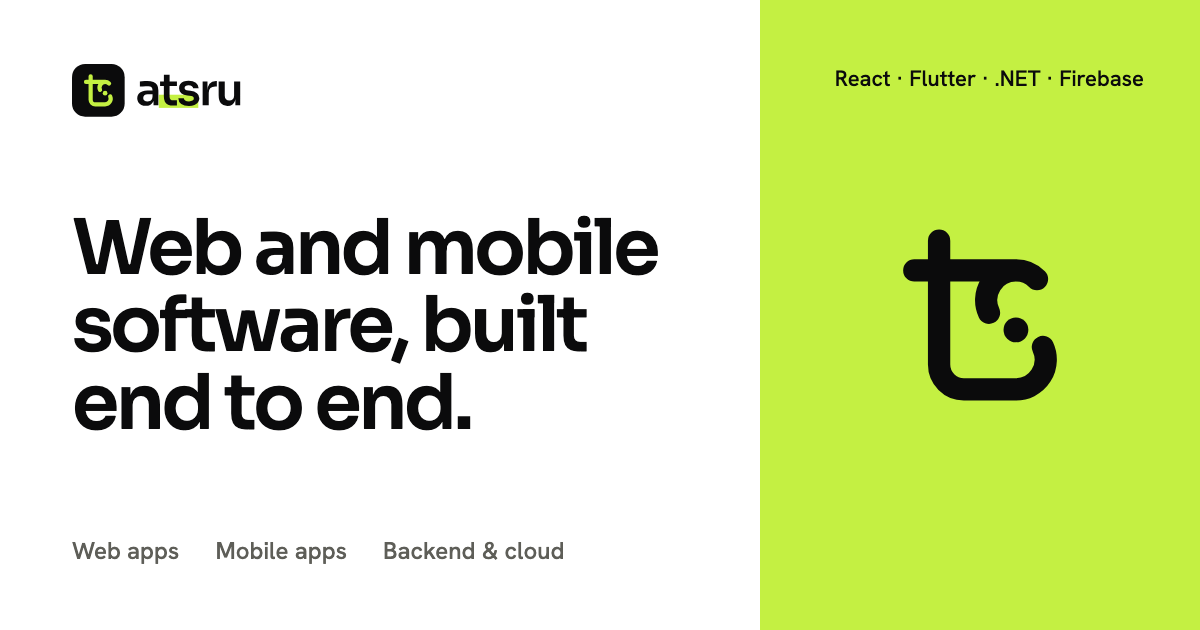
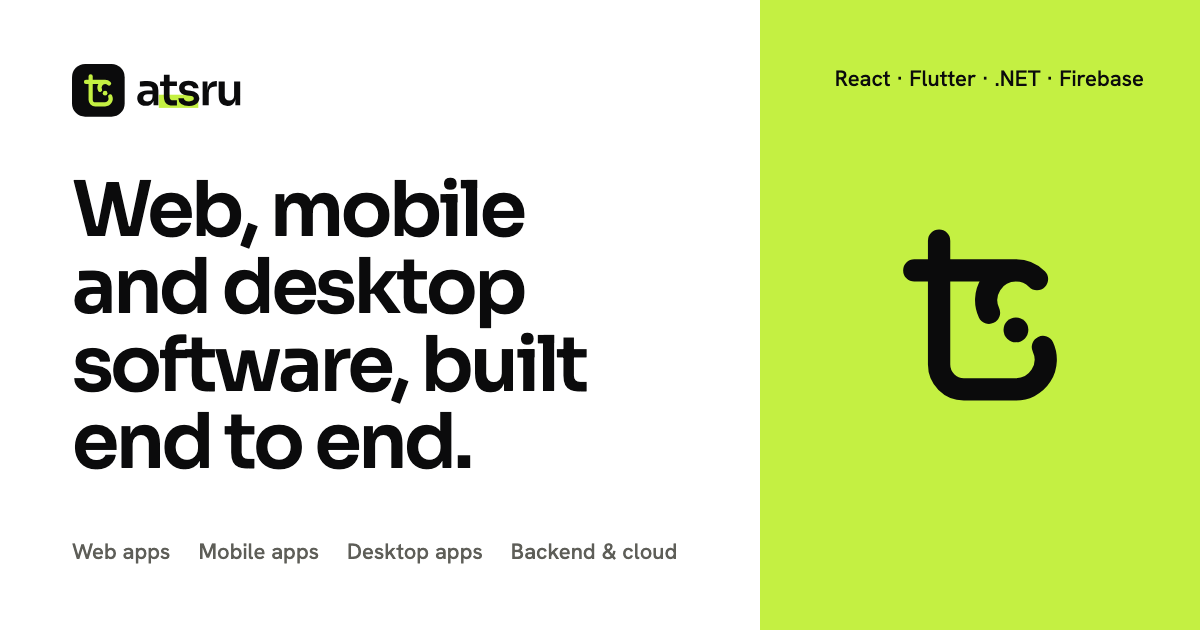
feat: target homepage copy at EU businesses
- title, description and Open Graph tags aimed at web, mobile and desktop
  app development for the EU
- headline and hero tags now include desktop; og-image re-rendered
- services: websites (incl. SEO and web apps), mobile, desktop, backend,
  prototypes
- new "How we work" and FAQ sections; about mentions Romania, EU, languages
- remove the Work section and client thumbnails (no client approval)
- JSON-LD gains country, languages and the new services

Changed region(s): [[0.0617, 0.2714, 0.555, 0.754], [0.0617, 0.8444, 0.555, 0.9048]]

diff --git a/public/index.html b/public/index.html
@@ -3,10 +3,10 @@
   <head>
     <meta charset="utf-8" />
     <meta name="viewport" content="width=device-width, initial-scale=1, viewport-fit=cover" />
-    <title>atsru — Web and mobile software, built end to end</title>
+    <title>Web, Mobile &amp; Desktop App Development in the EU — atsru</title>
     <meta
       name="description"
-      content="atsru designs and builds web apps, mobile apps and the backends behind them. React, Flutter, .NET and Firebase."
+      content="atsru builds web, mobile and desktop apps and the backends behind them with React, Flutter, .NET and Firebase. Fixed-price projects across the EU."
     />
     <meta name="theme-color" content="#0B0B0C" />
     <link rel="canonical" href="https://atsru.ro/" />
@@ -14,17 +14,17 @@
     <meta property="og:type" content="website" />
     <meta property="og:site_name" content="atsru" />
     <meta property="og:locale" content="en_GB" />
-    <meta property="og:title" content="atsru — Web and mobile software, built end to end" />
+    <meta property="og:title" content="atsru — Web, mobile and desktop software, built end to end" />
     <meta
       property="og:description"
-      content="We design and build web apps, mobile apps and the backends behind them."
+      content="We design and build web, mobile and desktop apps and the backends behind them, for businesses across the EU."
     />
     <meta property="og:url" content="https://atsru.ro/" />
     <meta property="og:image" content="https://atsru.ro/og-image.png" />
     <meta property="og:image:type" content="image/png" />
     <meta property="og:image:width" content="1200" />
     <meta property="og:image:height" content="630" />
-    <meta property="og:image:alt" content="atsru — Web and mobile software, built end to end. React, Flutter, .NET, Firebase." />
+    <meta property="og:image:alt" content="atsru — Web, mobile and desktop software, built end to end. React, Flutter, .NET, Firebase." />
     <meta name="twitter:card" content="summary_large_image" />
 
     <script type="application/ld+json">
@@ -38,9 +38,11 @@
             "url": "https://atsru.ro/",
             "logo": "https://atsru.ro/icon-512.png",
             "email": "ro.atsru@gmail.com",
-            "description": "atsru designs and builds web apps, mobile apps and the backends behind them.",
+            "address": { "@type": "PostalAddress", "addressCountry": "RO" },
+            "knowsLanguage": ["en", "ro"],
+            "description": "atsru designs and builds web, mobile and desktop apps and the backends behind them.",
             "areaServed": { "@type": "Place", "name": "European Union" },
-            "knowsAbout": ["Web application development", "Mobile app development", "React", "Flutter", ".NET", "Firebase"]
+            "knowsAbout": ["Website development", "Search engine optimisation", "Web application development", "Mobile app development", "Desktop app development", "Prototyping", "React", "Flutter", ".NET", "Firebase"]
           },
           {
             "@type": "WebSite",
@@ -104,20 +106,24 @@
 
           <div class="hero__copy">
             <h1 class="hero__title">
-              <span>Web and mobile</span>
+              <span>Web, mobile</span>
+              <span>and desktop</span>
               <span>software, built</span>
               <span>end to end.</span>
             </h1>
-            <p class="hero__lede">We design and build web apps, mobile apps and the backends behind them.</p>
+            <p class="hero__lede">
+              We design and build web, mobile and desktop apps and the backends behind them, for businesses across the EU.
+            </p>
             <div class="hero__actions">
               <a class="btn btn--dark" href="#contact">Start a project</a>
-              <a class="btn btn--ghost" href="#work">See our work</a>
+              <a class="btn btn--ghost" href="#process">How we work</a>
             </div>
           </div>
 
           <ul class="hero__tags" aria-label="What we do">
             <li>Web apps</li>
             <li>Mobile apps</li>
+            <li>Desktop apps</li>
             <li>Backend &amp; cloud</li>
           </ul>
         </div>
@@ -133,53 +139,57 @@
           <h2 class="section__title" id="services-title">Services</h2>
           <ul class="rows">
             <li class="row">
-              <h3>Web apps</h3>
-              <p>React front ends, dashboards and internal tools.</p>
+              <h3>Websites</h3>
+              <p>
+                Fast presentation websites for your business, built with SEO in mind, and apps that run in the browser,
+                from dashboards to full products.
+              </p>
             </li>
             <li class="row">
               <h3>Mobile apps</h3>
-              <p>iOS and Android apps, built in Flutter.</p>
+              <p>iOS and Android apps from one Flutter codebase, shipped to the App Store and Google Play.</p>
+            </li>
+            <li class="row">
+              <h3>Desktop apps</h3>
+              <p>Desktop applications built in .NET, from internal tools to full products.</p>
             </li>
             <li class="row">
               <h3>Backend &amp; cloud</h3>
-              <p>.NET APIs, Firebase and reliable deployments.</p>
+              <p>.NET APIs, Firebase, integrations and reliable deployments.</p>
+            </li>
+            <li class="row">
+              <h3>Prototypes</h3>
+              <p>
+                Have an idea you want to test before handing it to your dev team? We build a working prototype you can
+                put in front of users, then hand it over.
+              </p>
             </li>
           </ul>
         </div>
       </section>
 
-      <section class="section" id="work" aria-labelledby="work-title">
+
+      <section class="section" id="process" aria-labelledby="process-title">
         <div class="container">
-          <h2 class="section__title" id="work-title">Work</h2>
-          <ul class="cards">
-            <li class="card">
-              <a href="https://essentum-rufeea.ro/" target="_blank" rel="noopener">
-                <div class="card__media">
-                  <img src="/img/essentum.webp" alt="Essentum Rufeea website" width="252" height="247" loading="lazy" decoding="async" />
-                </div>
-                <h3>Essentum Rufeea <span class="arrow" aria-hidden="true">↗</span></h3>
-                <p>Brand site for a Romanian laundry fragrance company, with rich visuals and product storytelling.</p>
-              </a>
+          <h2 class="section__title" id="process-title">How we work</h2>
+          <ol class="rows">
+            <li class="row">
+              <h3><span class="row__num">01</span>Scope</h3>
+              <p>A first call to understand what you're building, then a written scope and a fixed-price quote.</p>
             </li>
-            <li class="card">
-              <a href="https://rcpartners.ro/" target="_blank" rel="noopener">
-                <div class="card__media">
-                  <img src="/img/rcpartners.webp" alt="RC Partners website" width="278" height="207" loading="lazy" decoding="async" />
-                </div>
-                <h3>RC Partners <span class="arrow" aria-hidden="true">↗</span></h3>
-                <p>Corporate website for a law firm specialised in mergers and acquisitions.</p>
-              </a>
+            <li class="row">
+              <h3><span class="row__num">02</span>Design</h3>
+              <p>Interface and architecture, agreed with you before the build starts.</p>
             </li>
-            <li class="card">
-              <a href="https://minded-counsels.ro/" target="_blank" rel="noopener">
-                <div class="card__media">
-                  <img src="/img/minded.webp" alt="Minded Counsels website" width="290" height="152" loading="lazy" decoding="async" />
-                </div>
-                <h3>Minded Counsels <span class="arrow" aria-hidden="true">↗</span></h3>
-                <p>Site for a boutique IP law firm with offices in Bucharest and Târgu Mureș.</p>
-              </a>
+            <li class="row">
+              <h3><span class="row__num">03</span>Build</h3>
+              <p>Short iterations, with a working version you can try as we go.</p>
             </li>
-          </ul>
+            <li class="row">
+              <h3><span class="row__num">04</span>Launch</h3>
+              <p>Release to production, documentation and a clean handover to your team.</p>
+            </li>
+          </ol>
         </div>
       </section>
 
@@ -194,7 +204,49 @@
               You work directly with the people writing the code. We keep the stack small and proven, ship in short
               iterations and leave you with software that is fast, documented and easy to hand over.
             </p>
+            <p>Based in Romania, we work remotely with businesses across the EU, in English or Romanian.</p>
           </div>
+        </div>
+      </section>
+
+      <section class="section" id="faq" aria-labelledby="faq-title">
+        <div class="container">
+          <h2 class="section__title" id="faq-title">FAQ</h2>
+          <ul class="rows">
+            <li class="row">
+              <h3>How much does a project cost?</h3>
+              <p>
+                We work at a fixed price. After a first call we scope the project and send a quote, so you know the
+                cost before any work starts.
+              </p>
+            </li>
+            <li class="row">
+              <h3>How long does it take?</h3>
+              <p>
+                Most projects reach a first usable release in 4–8 weeks. Larger products are split into milestones,
+                each with its own release.
+              </p>
+            </li>
+            <li class="row">
+              <h3>Do you work with clients outside Romania?</h3>
+              <p>Yes. We work remotely with businesses across the EU, in English or Romanian.</p>
+            </li>
+            <li class="row">
+              <h3>Can you build for both iOS and Android?</h3>
+              <p>Yes. We build mobile apps in Flutter, so one codebase ships to both the App Store and Google Play.</p>
+            </li>
+            <li class="row">
+              <h3>Do you build desktop apps?</h3>
+              <p>Yes. We build desktop apps in .NET, and they can share a backend with your web and mobile apps.</p>
+            </li>
+            <li class="row">
+              <h3>What do we get at the end?</h3>
+              <p>
+                The source code, documentation and deployment setup, so your team can take it from there or we can
+                keep building it together.
+              </p>
+            </li>
+          </ul>
         </div>
       </section>
 
@@ -222,8 +274,8 @@
     </footer>
 
     <nav class="nav" aria-label="Primary">
-      <a href="#work">Work</a>
       <a href="#services">Services</a>
+      <a href="#process">Process</a>
       <a href="#about">About</a>
       <a class="nav__cta" href="#contact">Contact</a>
     </nav>

diff --git a/public/styles.css b/public/styles.css
@@ -83,11 +83,13 @@ h1,
 h2,
 h3,
 p,
-ul {
+ul,
+ol {
   margin: 0;
 }
 
-ul {
+ul,
+ol {
   padding: 0;
   list-style: none;
 }
@@ -291,71 +293,14 @@ section[id] {
   color: var(--grey);
   font-size: 1.0625rem;
 }
-
-/* Work */
-.cards {
-  display: grid;
-  gap: 1.25rem;
-  margin-top: clamp(1.5rem, 3vw, 2.5rem);
-}
-.card a {
-  display: block;
-  height: 100%;
-  padding: 0.75rem 0.75rem 1.5rem;
-  border-radius: var(--radius);
-  background: var(--stone);
-  transition: transform 0.3s var(--ease), background-color 0.3s;
-}
-.card a:hover {
-  transform: translateY(-4px);
-}
-.card__media {
-  display: grid;
-  place-items: center;
-  aspect-ratio: 16 / 10;
-  margin-bottom: 1.25rem;
-  border-radius: calc(var(--radius) - 0.5rem);
-  background: var(--white);
-  overflow: hidden;
-}
-.card__media img {
-  width: auto;
-  max-width: 60%;
-  max-height: 72%;
-  object-fit: contain;
-}
-.card h3,
-.card p {
-  padding-inline: 0.75rem;
-}
-.card h3 {
-  display: flex;
-  justify-content: space-between;
-  gap: 1rem;
-  font-family: var(--font-display);
-  font-size: 1.375rem;
-  font-weight: 500;
-  letter-spacing: -0.03em;
-}
-.card .arrow {
-  display: grid;
-  place-items: center;
-  flex: none;
-  width: 2rem;
-  height: 2rem;
-  border-radius: 999px;
-  background: var(--black);
-  color: var(--lime);
-  font-family: var(--font-body);
-  font-size: 0.9375rem;
-  transition: transform 0.3s var(--ease);
-}
-.card a:hover .arrow {
-  transform: rotate(45deg);
-}
-.card p {
-  margin-top: 0.5rem;
+.row__num {
+  margin-right: 0.75em;
   color: var(--grey);
+  font-family: var(--font-body);
+  font-size: 0.5em;
+  font-weight: 600;
+  letter-spacing: 0;
+  vertical-align: 0.5em;
 }
 
 /* About */
@@ -480,9 +425,6 @@ section[id] {
     gap: 2rem;
     padding-block: 2rem;
   }
-  .cards {
-    grid-template-columns: repeat(2, minmax(0, 1fr));
-  }
   .cta {
     grid-template-columns: 1fr auto;
     align-items: end;
@@ -515,7 +457,8 @@ section[id] {
   }
   .hero__tags {
     display: flex;
-    gap: 2.25rem;
+    flex-wrap: wrap;
+    gap: 0.5rem 2.25rem;
     min-height: 3.5rem;
     align-items: center;
     color: var(--grey);
@@ -536,9 +479,6 @@ section[id] {
   }
   .row p {
     font-size: 1.1875rem;
-  }
-  .cards {
-    grid-template-columns: repeat(3, minmax(0, 1fr));
   }
   .about {
     display: grid;
@@ -562,6 +502,9 @@ section[id] {
   }
   .hero__title span:nth-child(3) {
     animation-delay: 0.12s;
+  }
+  .hero__title span:nth-child(4) {
+    animation-delay: 0.18s;
   }
   .hero__lede {
     animation-delay: 0.2s;

diff --git a/scripts/og-image.html b/scripts/og-image.html
@@ -56,9 +56,9 @@
       }
       .tags {
         display: flex;
-        gap: 36px;
+        gap: 28px;
         color: #5e5e58;
-        font-size: 24px;
+        font-size: 22px;
         font-weight: 500;
       }
       .panel {
@@ -111,7 +111,8 @@
       </svg>
 
       <h1>
-        <span>Web and mobile</span>
+        <span>Web, mobile</span>
+        <span>and desktop</span>
         <span>software, built</span>
         <span>end to end.</span>
       </h1>
@@ -119,6 +120,7 @@
       <div class="tags">
         <span>Web apps</span>
         <span>Mobile apps</span>
+        <span>Desktop apps</span>
         <span>Backend &amp; cloud</span>
       </div>
     </div>
